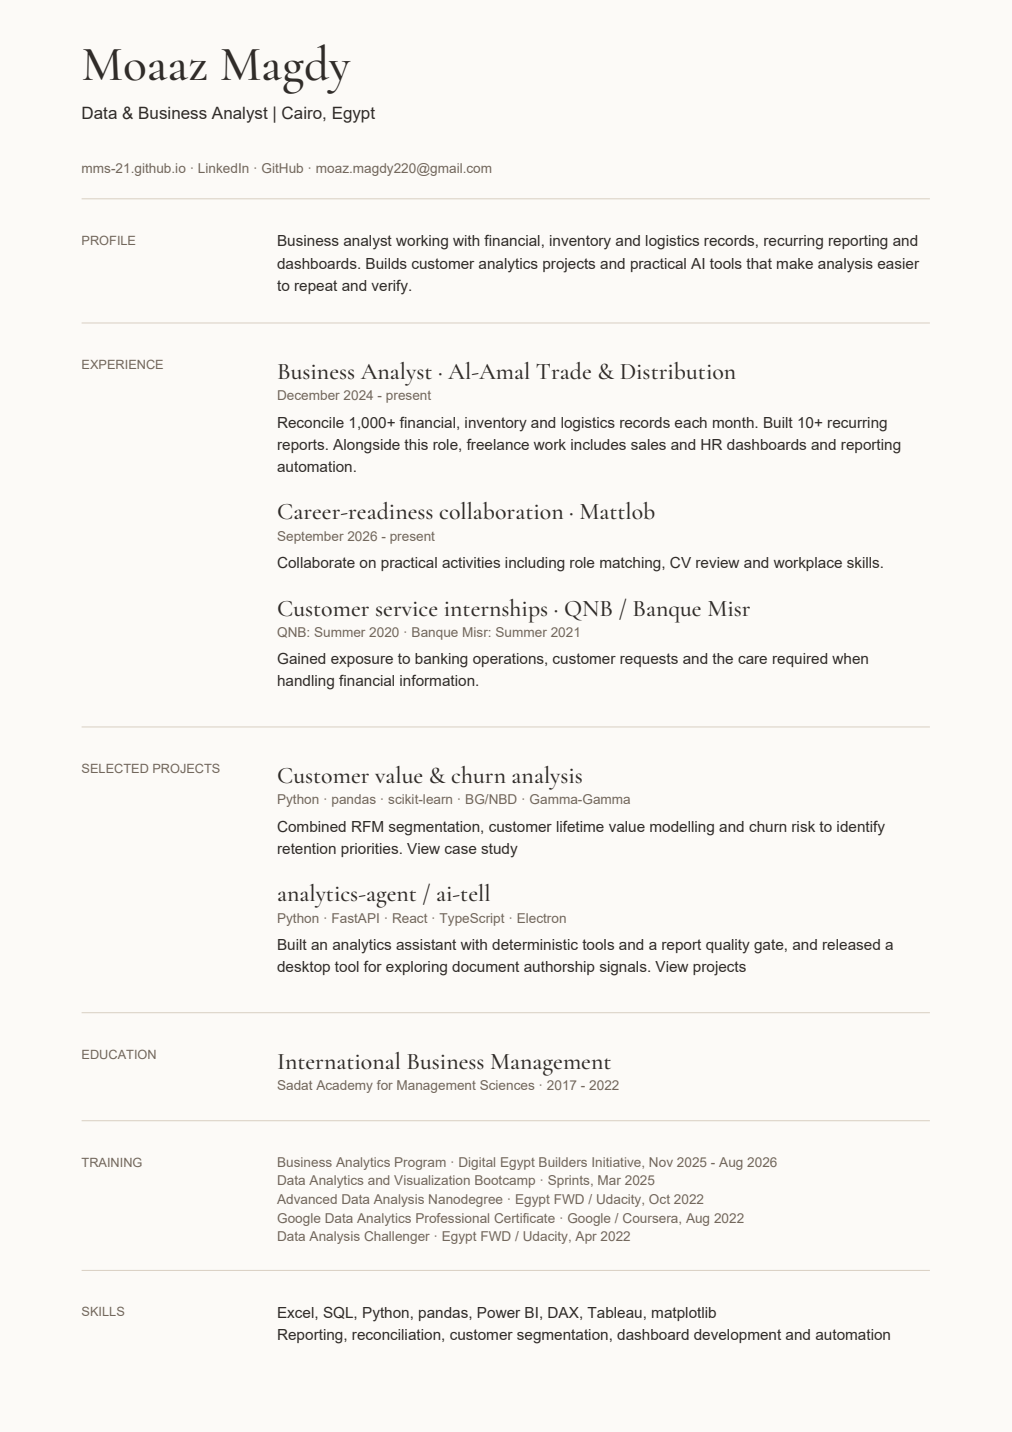
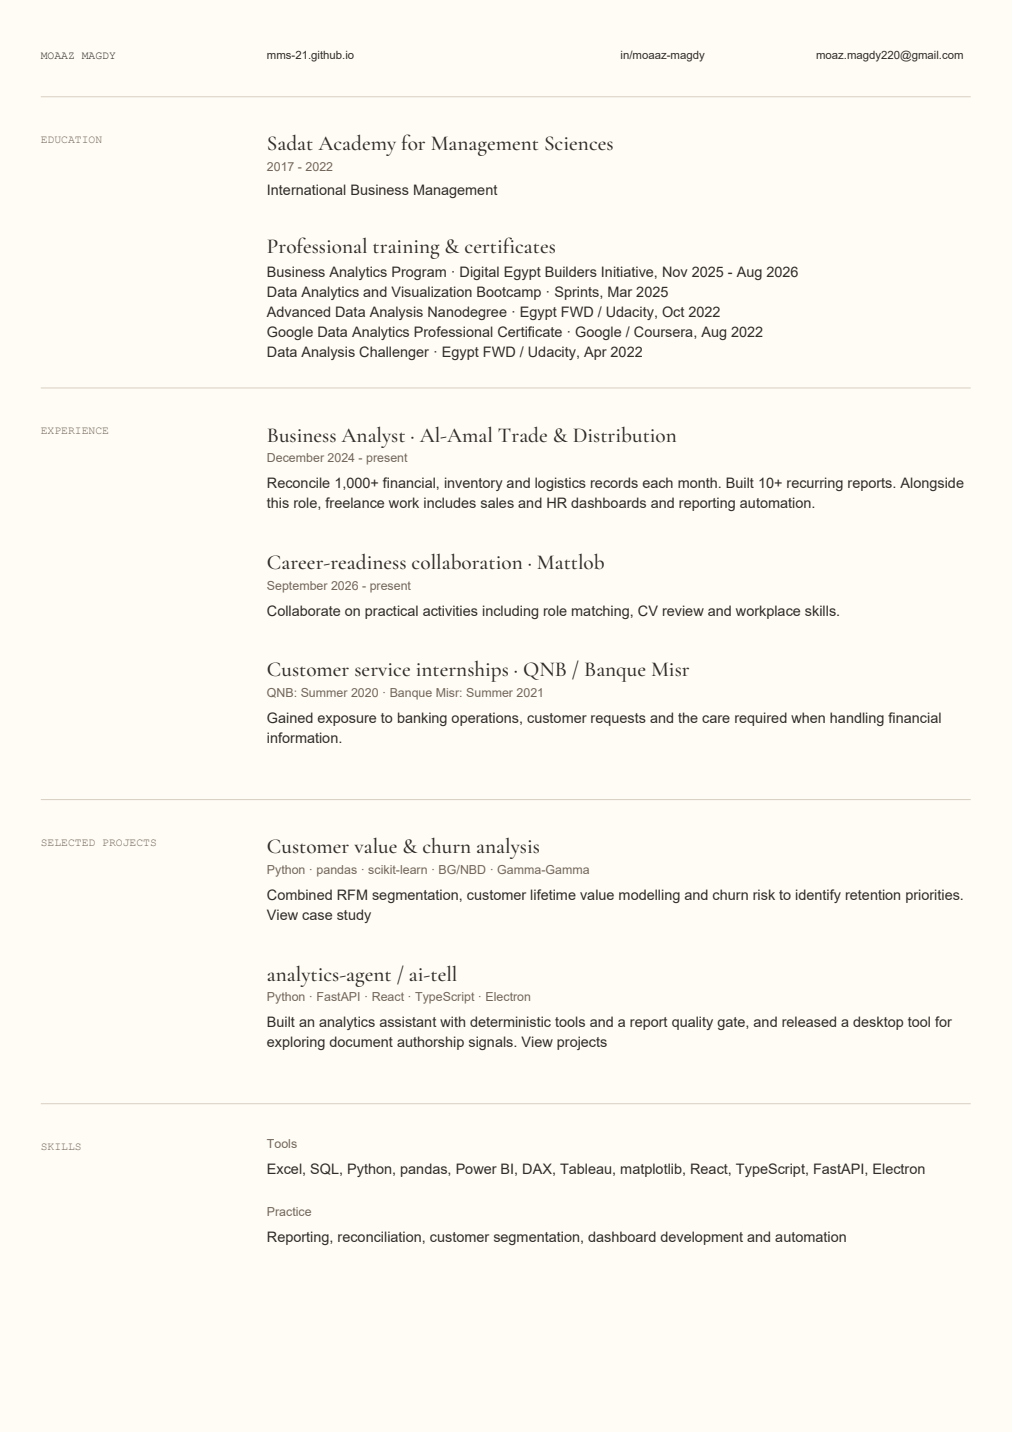
Match resume to compact editorial reference layout

diff --git a/scripts/build-resume.py b/scripts/build-resume.py
@@ -19,30 +19,36 @@ pdfmetrics.registerFont(TTFont('Cormorant', str(ROOT/'public/fonts/cormorant-gar
 c = canvas.Canvas(str(OUT), pagesize=(595.28,841.89))
 c.setTitle('Moaaz Magdy | Data & Business Analyst')
 c.setAuthor('Moaaz Magdy')
-c.setFillColor(HexColor('#fcfaf7')); c.rect(0,0,595.28,841.89,fill=1,stroke=0)
+c.setFillColor(HexColor('#fffcf5')); c.rect(0,0,595.28,841.89,fill=1,stroke=0)
 ink=HexColor('#302c29'); muted=HexColor('#72675c')
 styles={
- 'body':ParagraphStyle('body',fontName='Helvetica',fontSize=9,leading=13,textColor=ink),
- 'title':ParagraphStyle('title',fontName='Cormorant',fontSize=14,leading=15.5,textColor=ink),
- 'meta':ParagraphStyle('meta',fontName='Helvetica',fontSize=8,leading=11,textColor=muted),
+ 'body':ParagraphStyle('body',fontName='Helvetica',fontSize=8.5,leading=11.7,textColor=ink),
+ 'title':ParagraphStyle('title',fontName='Cormorant',fontSize=12.5,leading=14.5,textColor=ink),
+ 'meta':ParagraphStyle('meta',fontName='Helvetica',fontSize=7.3,leading=10,textColor=muted),
 }
-y=795
-def paragraph(text,kind='body',gap=5,x=163,width=382):
+y=807
+def paragraph(text,kind='body',gap=5,x=157,width=414):
  global y
  p=Paragraph(text,styles[kind]); _,height=p.wrap(width,1000)
  p.drawOn(c,x,y-height);y-=height+gap
 def section(label):
  global y
- y-=10;c.setStrokeColor(HexColor('#d8cfc2'));c.setLineWidth(.45);c.line(48,y,547,y);y-=19
- c.setFont('Helvetica',7.5);c.setFillColor(muted);c.drawString(48,y-8,label.upper())
+ y-=10;c.setStrokeColor(HexColor('#d8cfc2'));c.setLineWidth(.45);c.line(24,y,571,y);y-=19
+ c.setFont('Courier',6.7);c.setFillColor(muted);c.drawString(24,y-8,label.upper())
 def item(title,meta,body):
- paragraph(title,'title',3);paragraph(meta,'meta',4);paragraph(body,'body',10)
+ paragraph(title,'title',3);paragraph(meta,'meta',4);paragraph(body,'body',20)
 
-c.setFillColor(ink);c.setFont('Cormorant',29);c.drawString(48,y,'Moaaz Magdy');y-=23
-c.setFont('Helvetica',10);c.drawString(48,y,'Data & Business Analyst | Cairo, Egypt');y-=24
-paragraph('<link href="https://mms-21.github.io/">mms-21.github.io</link>  ·  <link href="https://www.linkedin.com/in/moaaz-magdy">LinkedIn</link>  ·  <link href="https://github.com/MMS-21">GitHub</link>  ·  <link href="mailto:moaz.magdy220@gmail.com">moaz.magdy220@gmail.com</link>','meta',2,x=48,width=500)
-section('Profile')
-paragraph('Business analyst working with financial, inventory and logistics records, recurring reporting and dashboards. Builds customer analytics projects and practical AI tools that make analysis easier to repeat and verify.')
+c.setFillColor(ink);c.setFont('Courier',6.7);c.drawString(24,y,'MOAAZ MAGDY')
+c.setFont('Helvetica',6.7)
+for text,url,x in [('mms-21.github.io','https://mms-21.github.io/',157),('in/moaaz-magdy','https://www.linkedin.com/in/moaaz-magdy',365),('moaz.magdy220@gmail.com','mailto:moaz.magdy220@gmail.com',480)]:
+ c.drawString(x,y,text);c.linkURL(url,(x,y-2,x+pdfmetrics.stringWidth(text,'Helvetica',6.7),y+8),relative=0)
+y-=12
+section('Education')
+paragraph('Sadat Academy for Management Sciences','title',3)
+paragraph('2017 - 2022','meta',3)
+paragraph('International Business Management','body',18)
+paragraph('Professional training &amp; certificates','title',4)
+paragraph('Business Analytics Program · Digital Egypt Builders Initiative, Nov 2025 - Aug 2026<br/>Data Analytics and Visualization Bootcamp · Sprints, Mar 2025<br/>Advanced Data Analysis Nanodegree · Egypt FWD / Udacity, Oct 2022<br/>Google Data Analytics Professional Certificate · Google / Coursera, Aug 2022<br/>Data Analysis Challenger · Egypt FWD / Udacity, Apr 2022','body',5)
 section('Experience')
 item('Business Analyst · Al-Amal Trade &amp; Distribution','December 2024 - present','Reconcile 1,000+ financial, inventory and logistics records each month. Built 10+ recurring reports. Alongside this role, freelance work includes sales and HR dashboards and reporting automation.')
 item('Career-readiness collaboration · Mattlob','September 2026 - present','Collaborate on practical activities including role matching, CV review and workplace skills.')
@@ -50,13 +56,11 @@ item('Customer service internships · QNB / Banque Misr','QNB: Summer 2020 · Ba
 section('Selected projects')
 item('Customer value &amp; churn analysis','Python · pandas · scikit-learn · BG/NBD · Gamma-Gamma','Combined RFM segmentation, customer lifetime value modelling and churn risk to identify retention priorities. <link href="https://mms-21.github.io/projects/ecommerce-clv-churn/">View case study</link>')
 item('analytics-agent / ai-tell','Python · FastAPI · React · TypeScript · Electron','Built an analytics assistant with deterministic tools and a report quality gate, and released a desktop tool for exploring document authorship signals. <link href="https://mms-21.github.io/projects/">View projects</link>')
-section('Education')
-paragraph('International Business Management','title',3)
-paragraph('Sadat Academy for Management Sciences · 2017 - 2022','meta',5)
-section('Training')
-paragraph('Business Analytics Program · Digital Egypt Builders Initiative, Nov 2025 - Aug 2026<br/>Data Analytics and Visualization Bootcamp · Sprints, Mar 2025<br/>Advanced Data Analysis Nanodegree · Egypt FWD / Udacity, Oct 2022<br/>Google Data Analytics Professional Certificate · Google / Coursera, Aug 2022<br/>Data Analysis Challenger · Egypt FWD / Udacity, Apr 2022','meta',4)
 section('Skills')
-paragraph('Excel, SQL, Python, pandas, Power BI, DAX, Tableau, matplotlib<br/>Reporting, reconciliation, customer segmentation, dashboard development and automation','body',3)
+paragraph('Tools','meta',4)
+paragraph('Excel, SQL, Python, pandas, Power BI, DAX, Tableau, matplotlib, React, TypeScript, FastAPI, Electron','body',14)
+paragraph('Practice','meta',4)
+paragraph('Reporting, reconciliation, customer segmentation, dashboard development and automation','body',3)
 assert y>40, f'Resume overflows: final baseline {y}'
 c.showPage();c.save()
 reader=PdfReader(str(OUT));assert len(reader.pages)==1
